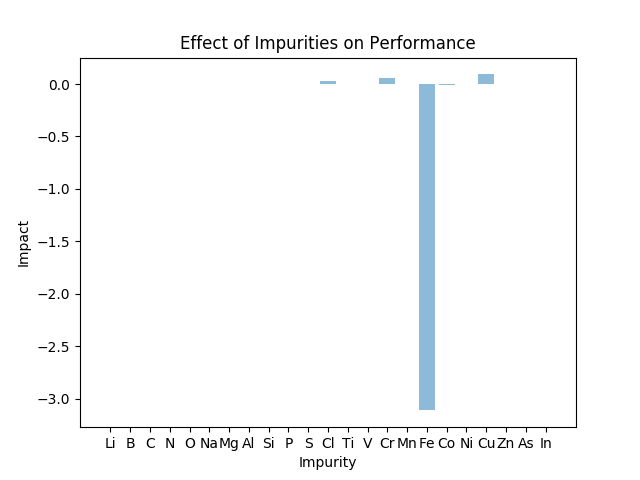
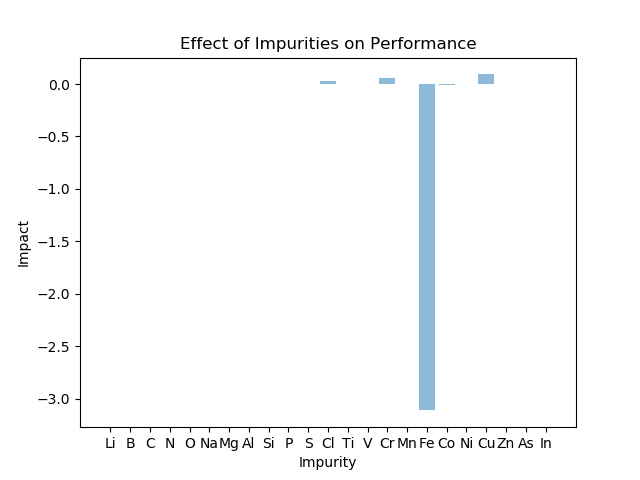
f

Changed region(s): [[0.2812, 0.0625, 0.75, 0.125]]

diff --git a/app.py b/app.py
@@ -44,7 +44,8 @@ def status():
 @app.route('/results')
 def results():
     """Serves the results page for the website"""
-    return render_template('results.html')
+    with open('output.txt', 'r') as f:
+        return render_template('results.html', text=f.read())
 
 
 @app.route('/layout')
@@ -68,15 +69,14 @@ def upload():
 
 @app.route('/train')
 def train():
-    os.system('python3 proto_ml_regression.py impurities.csv output.txt 1.5')
+    os.system('python3 proto_ml_regression.py impurities2.csv output.txt 1.5')
     return redirect(url_for('results'))
-
 
 
 @app.route('/results/graph')
 def return_graph():
     # Grab results from regressor
-    ml.RunRegressionAnalysis('impurities.csv', 'output.txt')
+    ml.RunRegressionAnalysis('impurities2.csv', 'output.txt')
     impurities, coefficients = ml.GetImpurityCoefficientsForGraph()
     # Generate graph as png
     spacing = np.arange(len(coefficients[1:]))
@@ -98,10 +98,8 @@ def return_graph():
 @app.route('/results/text')
 def return_text():
     filename = 'output.txt'
-    try:
-        return send_file(filename, attachment_filename='output.txt')
-    except Exception as e:
-        return str(e)
+    with open(filename, 'r') as f:
+        return f.read()
 
 
 if __name__ == '__main__':

diff --git a/proto_ml_regression.py b/proto_ml_regression.py
@@ -46,10 +46,6 @@ def dataFileToArray():
   features = data[:, 1:]
 
 
-def dataFileToArray():
-  data = np.loadtxt(datafile, delimiter=',')
-  
-
 def LRToOutFile():
   with open(outfile, 'w') as file:
     file.write("3 fold scores for linear regression\n______________________________\n")
